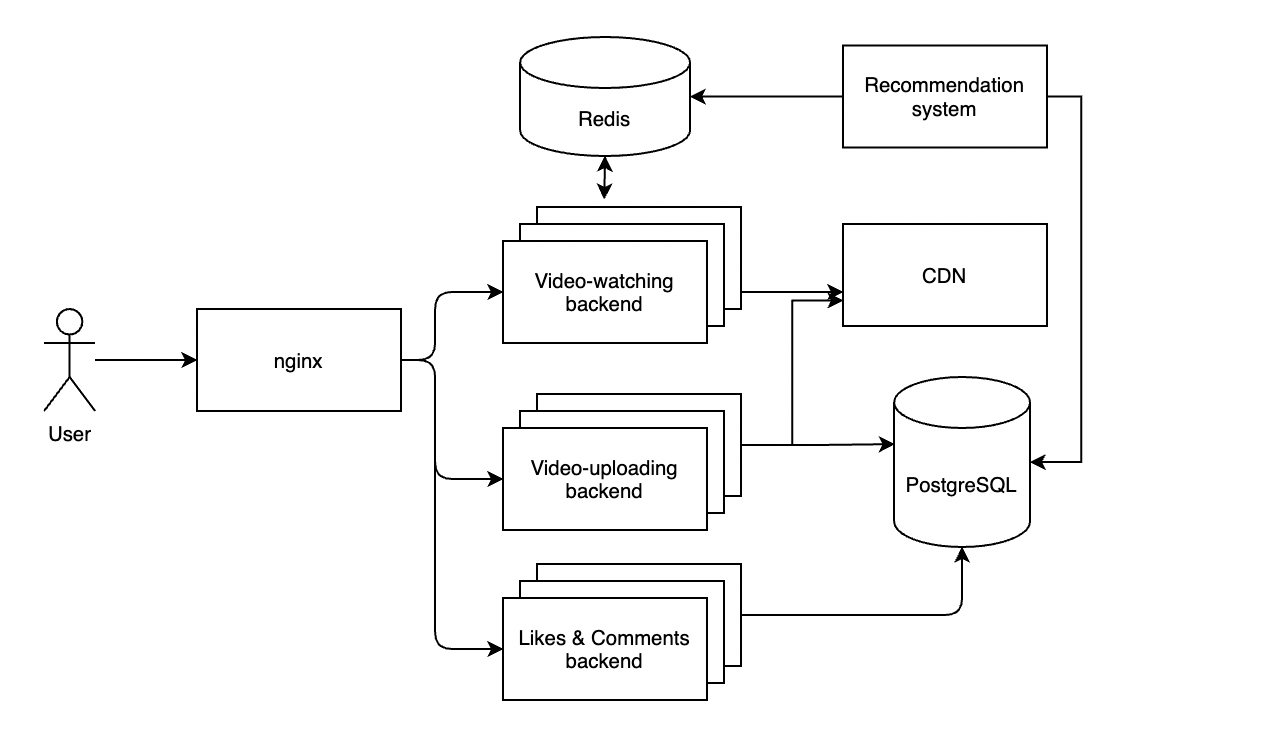
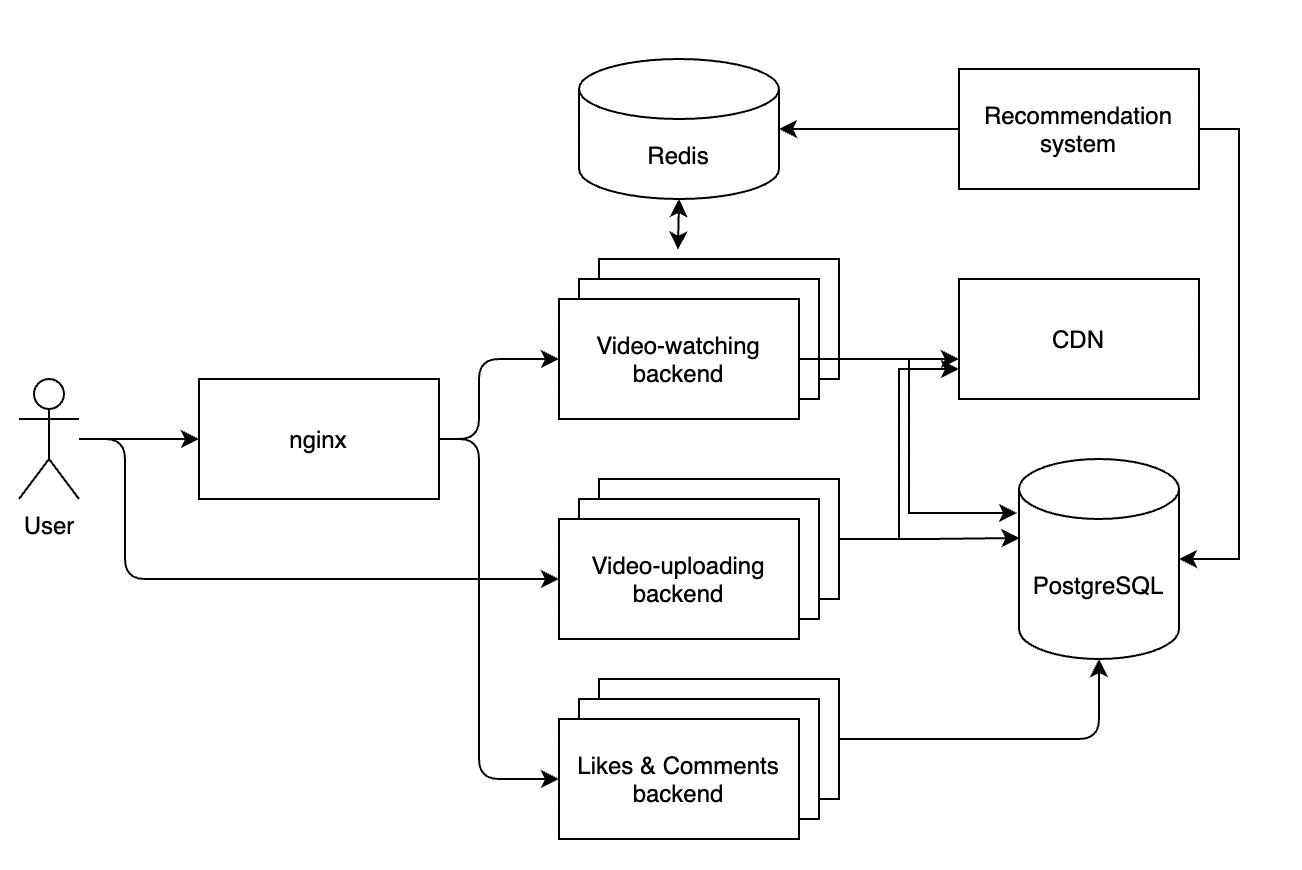
фиксы

diff --git a/README.md b/README.md
@@ -7,7 +7,7 @@
 
 ## 1.2 Целевая аудитория
 
-Основная аудитория - жители Южной Азии. Всего - 30 млн пользователей. Подавляющая часть аудитории - люди в возрасте от 10 до 29 лет.
+Основная аудитория - жители Poccии. Всего - 30 млн пользователей. Подавляющая часть аудитории - люди в возрасте от 10 до 29 лет.
 
 * 15 млн пользователей, загружающих видео (50%), пусть в среднем пользователь загружает 1 видео в месяц, т.е. ~ 15 млн загружаемых видео в месяц.
 
@@ -68,7 +68,6 @@
     1372.8 Мбит - бизнес логика
 
     499.2 Мбит - стат. файлы
-
 
 Расчитаем среднюю дневную нагрузку от всех пользователей:
 
@@ -134,7 +133,7 @@
 # 4 Физическая схема
 ![alt text](fiz_scheme.png "Физическая схема")
 
-Так как нагрузка на бизнес-логику и бд в среднем небольшая, то архитектура системы будет монолитной. Видео-контент будет храниться на CDN-серверах, так как запросы за видео популярные и при этом тяжелые. Запросы за бизнес-логикой будут равномерно распределены между бэкендами. А запросы за видео будут проксироваться на CDN-сервера. Запросы за видео распределяются на CDN-сервера с помощью Anycast BGP. В качестве базы данных будем использовать PostgreSQL, так как она является одной из самых надежных баз данных с обширным удобным функционалом для управления большим объемом данных. Загрузка видео на CDN-сервера, при чем одновременно с сохранением в бд основной информации о видео.
+Так как нагрузка на бизнес-логику и бд в среднем небольшая, то архитектура системы будет монолитной. Видео-контент будет храниться на CDN-серверах, так как запросы за видео популярные и при этом тяжелые. Запросы за бизнес-логикой будут равномерно распределены между бэкендами. А запросы за видео будут проксироваться на CDN-сервера.  В качестве базы данных будем использовать PostgreSQL, так как она является одной из самых надежных баз данных с обширным удобным функционалом для управления большим объемом данных. Загрузка видео на CDN-сервера, при чем одновременно с сохранением в бд основной информации о видео.
 
 
 # 5 Нагрузка на БД
@@ -314,17 +313,95 @@ Likes
 |-------|----------|-------------|----------|----------- |
 | UserId - Videos     | 34722       | 883|30 000 000       |79,47 Гбайт  |
 
-Видим, что одного инстанса Redis нам будет вполне достаточно.
-А вот общая нагрузка на PostgreSQL - 
+Видим, что одного инстанса Redis на 1 CPU нам будет вполне достаточно.
+А вот общая нагрузка на PostgreSQL - 7179,3 rps, общий объем на год - 1,7 Tбайт. 
+Один инстанс PostgreSQL выдерживает 500 rps, значин нам понадобится 16-ти ядерный компьютер под БД.
+Так как основная нагрузка идёт не на базу данных, шардировать БД смысла нет.
 
 # 6 Выбор технологий
 
-Фронтенд: React + mobx, как хорошо подходящая для react библиотека управления состоянием приложения + typescript, для предотвращения ошибок на этапе компиляции проекта + webpack, как универсальный и удобный сборщик модулей приложения.
+IOS клиент будет написан на Swift так как это рекомендуемый Apple язык разработки под IOS. Android клиент будет написан на Kotlin так как это рекомендуемый Goolge язык разработки под Android.
 
-Бекенд: go, так как он удобен для написания микросервисов (взаимодейтсвие можно осуществлять по протоколу grpc), имеет возможность благодаря горутинам эффективно реализовывать параллелизм.
+Бекенд: Golang, так как он удобен для написания микросервисов (взаимодейтсвие можно осуществлять по протоколу grpc), имеет возможность благодаря горутинам эффективно реализовывать параллелизм.
+
+Сервис рекомендаций задействует алгоритмы ML, удобнее всего будет использовать быстрый для разработки Python
+
 Взаимодействие по HTTP2
 
-# 7. Cхема проекта
+# 7. Расчёт оборудования
+
+## 7.1 Nqinx
+
+С учетом ssl-терминации, Nginx способен держать ≈ 250 RPS на CPU. Наша пиковая нагрузка - 2727 rps.
+То есть необходимо минимум 11 инстансов Nginx. Для надежности возмем 3 сервера по 16 CPU.
+
+## 7.2 Video-watching backend
+
+Пиковая нагрузка на загрузку рекомендаций 2649 rps. Допустим, что бэкенд-сервер на голанг имеет производительность 4000 rps.
+Достаточно будет одного сервера, но для надежности возьмем 3.
+
+## 7.3 Video-uploading backend
+
+Будем отталкаваиться от максимальной пиковой нагрузки - 2727. Конфигурация идентична Video-watching backend
+
+
+## 7.4 Likes&Comments Backend
+
+Будем отталкаваиться от максимальной пиковой нагрузки - 2727. Конфигурация идентична Video-watching backend
+
+
+## 7.4 Recommendation system
+
+По rps нам подходит предыдущая конфигурация, но так как в системе рекомендаций много ML-расчетов, мы получим 
+большую нагрузку RAM и CPU. Поставим 5 машин с 32  CPU и 128 Гб RAM.
+
+## 7.6 PostgreSQL
+
+Общая нагрузка на PostgreSQL - 7179,3 rps, общий объем на год - 1,7 Tбайт. 
+Один инстанс PostgreSQL выдерживает 500 rps, значин нам понадобится 16-ти ядерный компьютер под БД с 4 Tбайт памяти.
+
+
+## 7.6 Redis
+
+Нагрузка на Redis - 35555 rps. Допустим, что инстанс Redis выдерживает нагрузку в 100 000 rps. Ограничение по памяти - 80Гб.
+Хватит машины с 4 СPU, 128 Гб RAM.
+## 7.7 CDN
+
+При пиковом онлайне (50% дневной аудитории) общая пропускная способность:
+    0.5 * 18 000 000 * 2.4 = 21.6 Тбит/с
+С использованием четырех сетевых карт на 25 Гбит/с потребуется
+    21600 / (25 * 4) = 216 серверов
+
+За год в ТикТок загружается 180 000 000 видео, в среднем один ролик весит 68.34 Mбайт. Видео будем делить на популярные и непопулярные. 90% контента будет храниться в хранилище на HDD. Объем хранилища на год:
+    180000000 * 68.34 * 0.9 = 11.071 Пбайт
+Актуальные видео (10%) будут храниться на SSD дисках. Если считать, что видео актуально около 2 недель, то всего на SSD должно
+помещаться 7.5 млн видео, округлим до 8 млн, тогда минимальный объем SSD хранилища:
+    7500000 * 68.34 * 0.1 = 51.255 Tбайт
+Файловые сервера разделим на сервера актуального контента - 50 штук, остальные на холодный контент, посчитаем хранилища для 
+серверов актуального контента:
+    51.255 / 50 = 10.2 Tбайт
+Для серверов холодного контента:
+    11.071 / 166 = 66.69 Tбайт 
+
+Для успешной доставки видеоконтента пользователям, CDN необходимо спроектировать так, чтобы ее сервера были в равной степени нагружены и примерно равноудалены от пользователей в разных частях страны. Сервера с горячим контентор расположим в самых населеннх городах.
+
+
+![alt text](russian_cities.png "CDN")
+
+## 7.8 Итог
+
+| Сервер                           | CPU   | RAM | Диск, Гбайт    | Кол-во |
+|-----------------                |-------|-----|----------|----------- |
+| Nqinx                           |   16  |  16  |    64   |       3     |
+| Redis                           |    4  | 128 |  64      |       4     |
+| Video-watching backend           |   4   | 16 |      128 |       3    |
+| Video-uploading backend          |   4   |16  |   128    |       3    | 
+| Likes&Comments Backend           |   4   | 16  |  128    |       3    |
+| Recommendation system            |   32  |  128|  128     |       5    |
+| PostgreSQL                       |   16  |  16 | 4000     |       1    |
+| Модули CDN с популярным контентом|       |     |   11000       |      50    |
+| Модули CDN с холодным контентом  |       |     |   80000  |      166   |
+
 
 # 8. Cхема проекта
 
